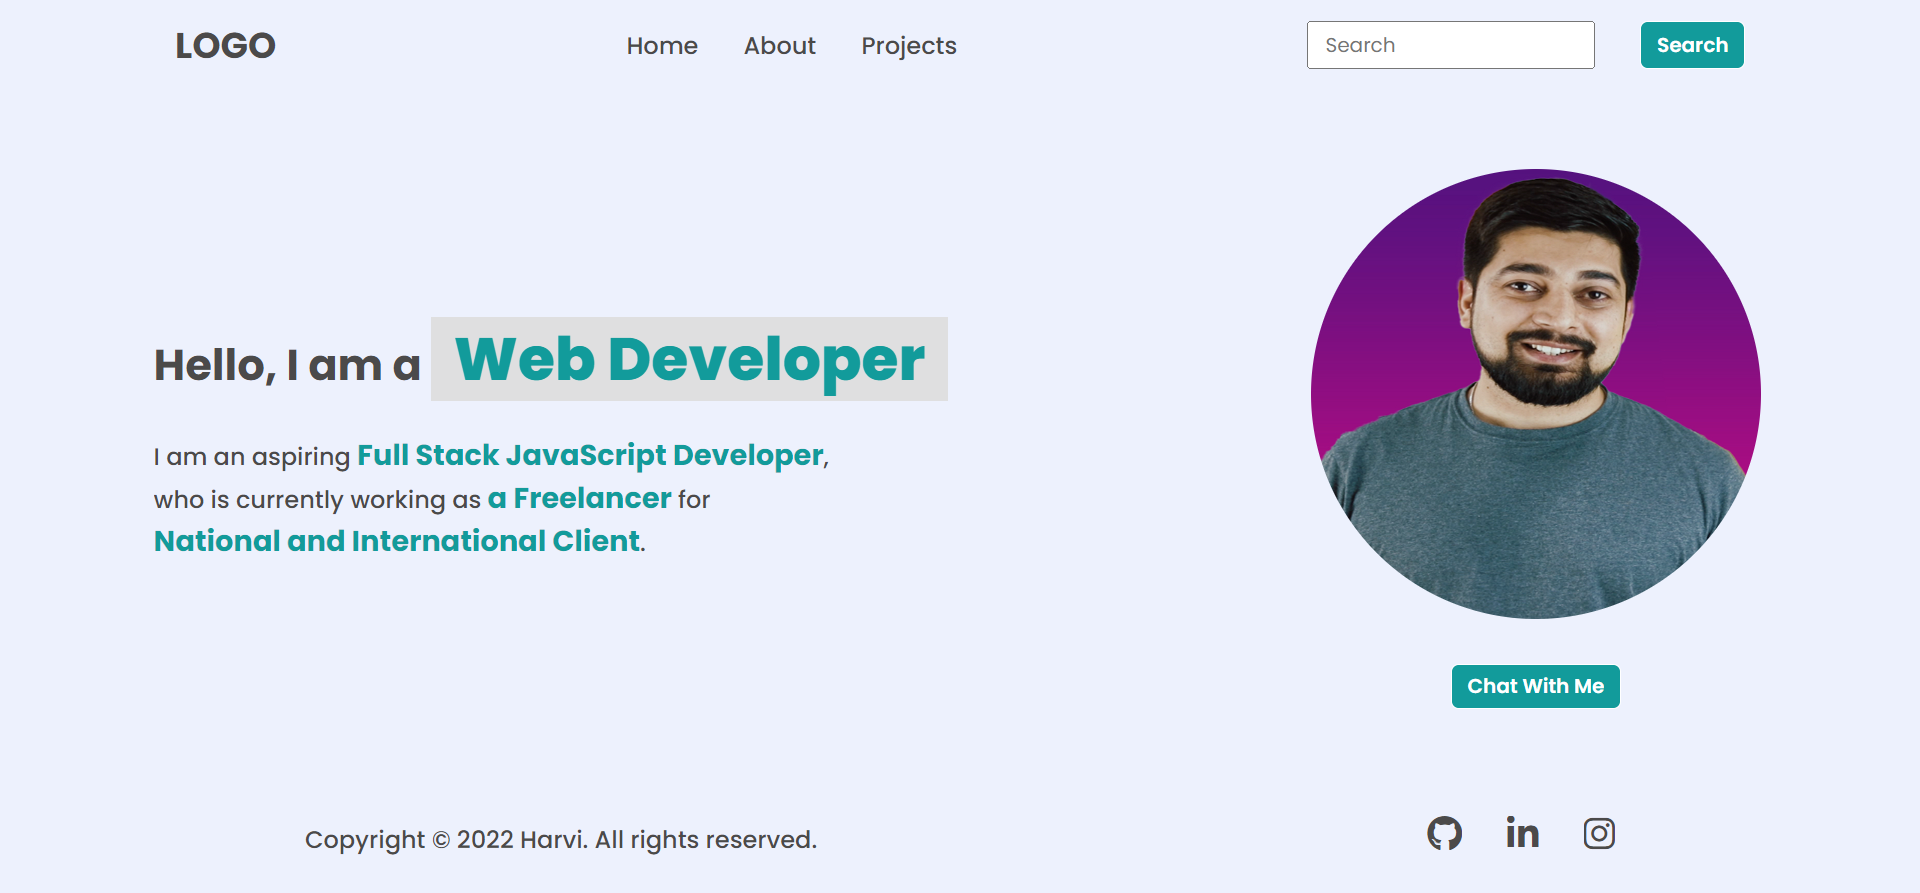
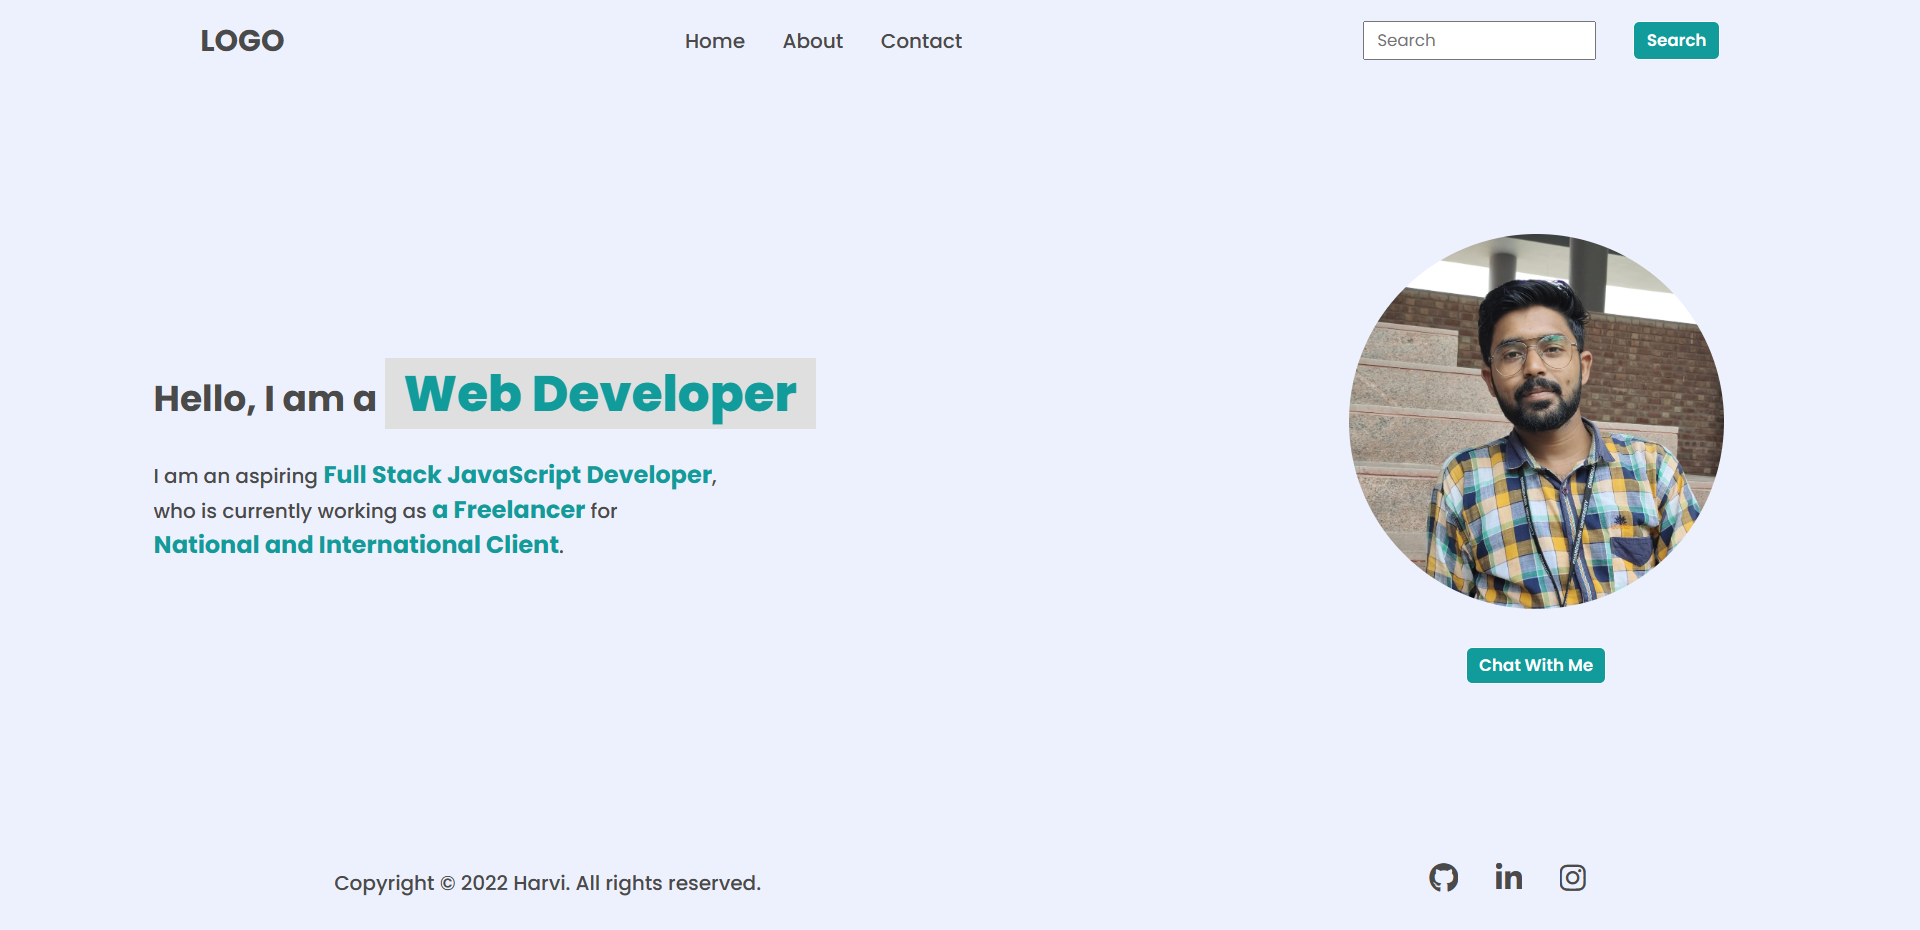
done assignment upto 3

diff --git a/DOM Assignment/DOM Assignment 1,2,3/README.md b/DOM Assignment/DOM Assignment 1,2,3/README.md
@@ -10,18 +10,26 @@
 
 #### Solution:-
 
+```javascript
+
 let HireMe=document.createElement("li");
 HireMe.innerHTML="<a>Hire Me</a>";
 document.querySelector("nav ul").appendChild(HireMe);
 
-### Task 2: Changed the <mark>Placeholder of search bar</mark>
+```
+
+### Task 2: Changing the <mark>Placeholder of search bar</mark>
 ![image](./firstAssignmentImage/task2Output.png)
 
 #### Solution:- 
 
+```javascript
+
 document.querySelector(".search-field input").placeholder="Search My Project";
 
-### Task 3: Changed the JOB role and Company name in the paragraph
+```
+
+### Task 3: Changing the JOB role and Company name in the paragraph
 ![image](./firstAssignmentImage/task3Output.png)
 
 #### Solution:- 
@@ -32,5 +40,97 @@ let role=document.querySelector(".hero-left-section p :nth-child(3)");
 role.innerHTML="An Employee";
 let company =document.querySelector(".hero-left-section p :nth-child(5)");
 company.innerHTML="iNeuron Intelligence Pvt Ltd";
+
+```
+
+### Task 4: Changing the Profile Picture
+![image](./firstAssignmentImage/task4Output.png)
+
+#### Solution:- 
+
+```javascript
+ 
+    let dp=document.querySelector(".hero-right-section img");
+    dp.src="./Assets/dp.jpg";
+
+```
+
+### Task 5:Adding "Support Me" button After "Chat With Me" Button
+![image](./firstAssignmentImage/task5Output.png)
+
+#### Solution:- 
+
+```javascript
+ 
+    var button=document.createElement('BUTTON');
+    var btnText=document.createTextNode("Support Me");
+    button.appendChild(btnText);
+    document.querySelector(".hero-right-section-btns").appendChild(button);
+
+```
+
+## Assignment Two
+
+### Task 1: chaning the background color of title and description sections
+
+![image](./secondAssignmentImage/task1Output.png)
+
+#### Solution:- 
+
+```javascript
+
+document.querySelectorAll(".accordian h3").forEach((title)=> title.style.backgroundColor="#EAF0F1");
+document.querySelectorAll(".accordian p").forEach((description)=> description.style.backgroundColor="#EAF001");
+
+```
+
+### Task 2: Adding one more section "skills" and his description
+
+![image](./secondAssignmentImage/task2Output.png)
+
+#### Solution:- 
+
+```javascript
+
+let div=document.createElement('DIV');
+let h3=document.createElement('H3');
+let p=document.createElement('P');
+
+let titleText=document.createTextNode("Skills");
+let desText=document.createTextNode(" I posses a very good command over the full stack development technologies like MERN which can be seen in my work over the GITHUB.");
+
+p.appendChild(titleText);
+h3.appendChild(titleText);
+p.appendChild(desText);
+div.appendChild(h3,p);
+div.appendChild(p);
+document.querySelector(".accordian-wrapper").appendChild(div);
+
+div.className="accordian";
+p.style.display="block";
+
+```
+
+
+## Assignment Three
+
+## Before making any changes 
+
+![image](./Assets/ThirdAssigMainPage.png)
+
+### Task 1: Changing the "PlaceHolder"
+
+![image](./thirdAssignmentImage/task1Output.png)
+
+#### Solution:- 
+
+```javascript
+
+document.querySelector(".enterName").placeholder="FSJS 2.0";
+document.querySelector(".userName").placeholder="FSJS 2.0";
+document.querySelector(".enterMail").placeholder="fsjs@ineuron.ai";
+document.querySelector(".userEmail").placeholder="fsjs@ineuron.ai";
+document.querySelector(".enterMessage").placeholder="Hello World";
+document.querySelector(".userMessage").placeholder="Hello World";
 
 ```
